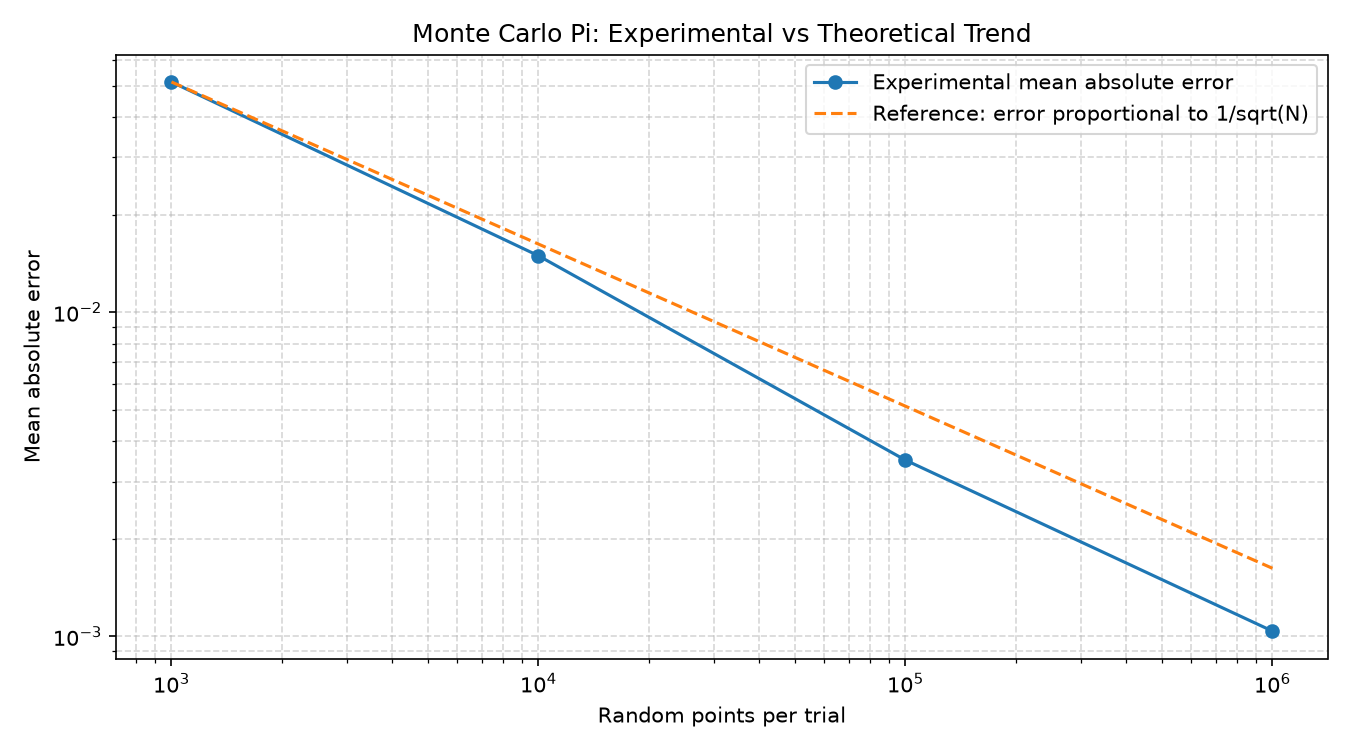
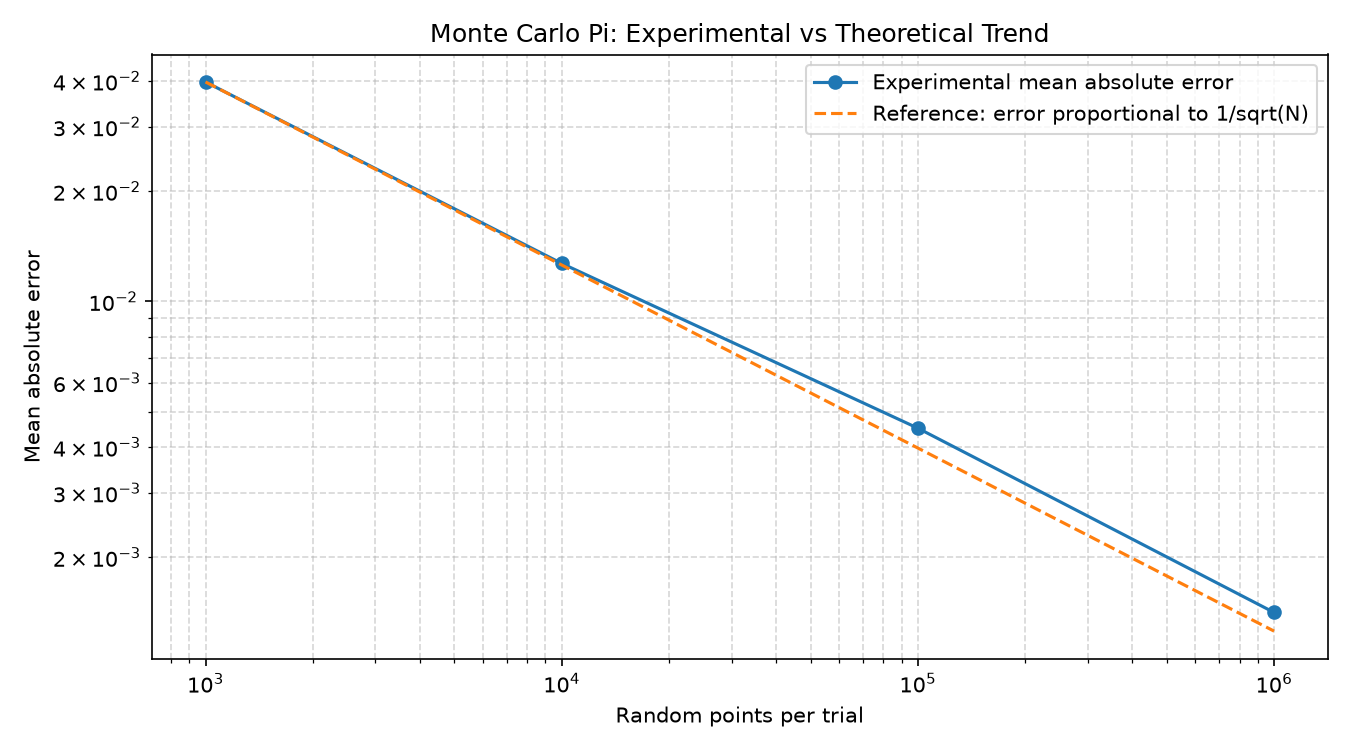
save changes

diff --git a/app.py b/app.py
@@ -1,0 +1,363 @@
+from __future__ import annotations
+import csv
+import io
+import math
+import random
+import statistics
+import subprocess
+import tempfile
+import time
+from pathlib import Path
+
+import matplotlib.pyplot as plt
+import streamlit as st
+
+PI = math.pi
+ROOT = Path(__file__).resolve().parent
+DEFAULT_CSV = ROOT / "comparison.csv"
+
+st.set_page_config(
+    page_title="Monte Carlo Lab | Simulation Studio",
+    page_icon="🎲",
+    layout="wide",
+    initial_sidebar_state="expanded",
+)
+
+# Lightweight design system: custom CSS only affects presentation.
+st.markdown("""
+<style>
+@import url('https://fonts.googleapis.com/css2?family=DM+Mono:wght@400;500&family=Manrope:wght@400;500;600;700;800&display=swap');
+:root { --ink:#e8edf7; --muted:#98a5bc; --panel:#111827; --panel2:#151f30; --line:rgba(148,163,184,.18); --mint:#70e1c1; --blue:#82aaff; }
+html, body, [class*="css"] { font-family:'Manrope',sans-serif; }
+.stApp { background: radial-gradient(ellipse at 15% 0%, rgba(60,100,170,.16), transparent 35%), #0a0f18; color:var(--ink); }
+[data-testid="stHeader"] { background:rgba(10,15,24,.8); }
+[data-testid="stSidebar"] { background:#0c1320; border-right:1px solid var(--line); }
+.block-container { padding-top:2rem; padding-bottom:3rem; max-width:1500px; }
+.hero { padding:1.35rem 1.5rem 1.3rem; border:1px solid var(--line); border-radius:22px; background:linear-gradient(135deg,rgba(25,38,58,.95),rgba(15,23,36,.93)); margin-bottom:1.25rem; position:relative; overflow:hidden; }
+.hero:after { content:'π'; position:absolute; right:2.2rem; top:-2.2rem; font-family:Georgia,serif; font-size:12rem; font-weight:700; color:rgba(130,170,255,.06); pointer-events:none; }
+.eyebrow { color:var(--mint); font-family:'DM Mono',monospace; font-size:.75rem; letter-spacing:.14em; text-transform:uppercase; }
+.hero h1 { margin:.35rem 0 .25rem; font-size:2.25rem; letter-spacing:-.055em; color:#f2f6ff; }
+.hero p { color:var(--muted); margin:0; max-width:740px; }
+.section-title { font-size:1.13rem; font-weight:800; color:#eef3ff; margin:.3rem 0 .85rem; letter-spacing:-.025em; }
+.panel { background:linear-gradient(145deg,rgba(21,31,48,.92),rgba(15,23,35,.92)); border:1px solid var(--line); border-radius:18px; padding:1rem 1.1rem; }
+.kpi-label { color:var(--muted); font-size:.78rem; letter-spacing:.02em; margin-bottom:.35rem; }
+.kpi-value { color:#f2f6ff; font-size:1.55rem; font-weight:800; letter-spacing:-.04em; line-height:1.25; }
+.kpi-foot { color:#a1b0c8; font-size:.76rem; margin-top:.4rem; }
+.tag { display:inline-block; padding:.25rem .55rem; border-radius:99px; background:rgba(112,225,193,.1); color:var(--mint); border:1px solid rgba(112,225,193,.22); font-size:.72rem; font-family:'DM Mono',monospace; }
+div[data-testid="stMetric"] { background:linear-gradient(145deg,rgba(21,31,48,.92),rgba(15,23,35,.92)); border:1px solid var(--line); padding:1rem 1.05rem; border-radius:16px; }
+div[data-testid="stMetricLabel"] { color:#aab6ca; }
+div[data-testid="stMetricValue"] { color:#f2f6ff; }
+.stButton button, .stDownloadButton button { border-radius:10px; min-height:2.8rem; font-weight:750; }
+.stButton button[kind="primary"] { background:#70e1c1; color:#092017; border:0; }
+.stButton button[kind="primary"]:hover { background:#9aefd8; color:#092017; }
+[data-testid="stTabs"] button { font-weight:700; }
+[data-testid="stDataFrame"] { border:1px solid var(--line); border-radius:12px; overflow:hidden; }
+.small-note { color:var(--muted); font-size:.82rem; }
+.formula { padding:.75rem 1rem; border-left:3px solid var(--mint); background:rgba(112,225,193,.06); border-radius:0 10px 10px 0; color:#dce8f8; }
+hr { border-color:var(--line); }
+</style>
+""", unsafe_allow_html=True)
+
+# -----------------------------
+# Sidebar: experiment configuration
+# -----------------------------
+st.sidebar.markdown('<div class="eyebrow">Experiment console</div>', unsafe_allow_html=True)
+st.sidebar.title("Run configuration")
+st.sidebar.caption("Parameters mirror your C++ benchmark workflow.")
+trials = st.sidebar.number_input("Repeated trials per sample size", min_value=1, max_value=10000, value=20, step=1)
+start_n = st.sidebar.select_slider(
+    "Starting sample size",
+    options=[100, 1_000],
+    value=1_000,
+    format_func=lambda x: f"{x:,}",
+)
+seed = st.sidebar.number_input("Random seed", min_value=0, max_value=2_147_483_647, value=42, step=1)
+engine_choice = st.sidebar.radio("Simulation engine", ["Python demo engine", "Use C++ engine (optional)"], index=0)
+cpp_binary = st.sidebar.text_input("C++ executable path", value="./MonteCarloLab.exe" if __import__('os').name == 'nt' else "./MonteCarloLab", disabled=engine_choice != "Use C++ engine (optional)")
+run_button = st.sidebar.button("▶  Run experiment", type="primary", use_container_width=True)
+st.sidebar.markdown("---")
+st.sidebar.markdown("**Sample-size schedule**")
+st.sidebar.code("N, 10N, 100N, 1000N", language="text")
+st.sidebar.caption("The C++ program currently caps each sample size at 1,000,000. Choose a starting size accordingly.")
+
+st.markdown('''<div class="hero">
+  <div class="eyebrow">Monte Carlo Simulation Lab · Research workspace</div>
+  <h1>Measure randomness.<br>Understand convergence.</h1>
+  <p>Explore how sampling error, repeated trials, and computation time behave as the number of random points grows. Built around your project's π-estimation benchmark and CSV results.</p>
+</div>''', unsafe_allow_html=True)
+
+# Helpers
+
+def run_python_experiment(num_trials: int, initial_n: int, random_seed: int) -> list[dict]:
+    """Perform the same four-level repeated-trial experiment as main.cpp."""
+    rows: list[dict] = []
+    rng = random.Random(random_seed)
+    for level in range(4):
+        n = initial_n * (10 ** level)
+        if n > 1_000_000:
+            raise ValueError(f"Sample size {n:,} exceeds the existing C++ project's 1,000,000-point limit. Lower the starting sample size.")
+        estimates, errors, timings = [], [], []
+        for _ in range(num_trials):
+            inside = 0
+            start = time.perf_counter()
+            for _ in range(n):
+                x = rng.uniform(-1.0, 1.0)
+                y = rng.uniform(-1.0, 1.0)
+                if x * x + y * y <= 1.0:
+                    inside += 1
+            elapsed = time.perf_counter() - start
+            estimate = 4.0 * inside / n
+            estimates.append(estimate)
+            errors.append(abs(estimate - PI))
+            timings.append(elapsed)
+        avg_time = statistics.mean(timings)
+        rows.append({
+            "samples": n,
+            "trials": num_trials,
+            "mean_estimate": statistics.mean(estimates),
+            "mean_absolute_error": statistics.mean(errors),
+            "average_time": avg_time,
+            "points_per_second": n / avg_time if avg_time > 0 else 0.0,
+            "estimate_stddev": statistics.stdev(estimates) if len(estimates) > 1 else 0.0,
+        })
+    return rows
+
+
+def read_comparison_csv(path: Path) -> list[dict]:
+    if not path.exists():
+        return []
+    with path.open("r", newline="", encoding="utf-8-sig") as f:
+        reader = csv.DictReader(f)
+        required = {"samples", "trials", "mean_estimate", "mean_absolute_error", "average_time", "points_per_second"}
+        if not reader.fieldnames or not required.issubset(set(reader.fieldnames)):
+            return []
+        rows = []
+        for raw in reader:
+            try:
+                rows.append({
+                    "samples": int(raw["samples"]),
+                    "trials": int(raw["trials"]),
+                    "mean_estimate": float(raw["mean_estimate"]),
+                    "mean_absolute_error": float(raw["mean_absolute_error"]),
+                    "average_time": float(raw["average_time"]),
+                    "points_per_second": float(raw["points_per_second"]),
+                    "estimate_stddev": float(raw.get("estimate_stddev", 0) or 0),
+                })
+            except (ValueError, TypeError):
+                continue
+        return rows
+
+
+def write_csv(rows: list[dict]) -> bytes:
+    fieldnames = ["samples", "trials", "mean_estimate", "mean_absolute_error", "average_time", "points_per_second", "estimate_stddev"]
+    buffer = io.StringIO()
+    writer = csv.DictWriter(buffer, fieldnames=fieldnames)
+    writer.writeheader()
+    for row in rows:
+        writer.writerow({k: row.get(k, 0) for k in fieldnames})
+    return buffer.getvalue().encode("utf-8")
+
+
+def style_ax(ax, title: str, xlabel: str, ylabel: str, log_x: bool = True, log_y: bool = False):
+    ax.set_title(title, loc="left", color="#e8edf7", fontsize=12, fontweight="bold", pad=13)
+    ax.set_xlabel(xlabel, color="#aab6ca")
+    ax.set_ylabel(ylabel, color="#aab6ca")
+    if log_x:
+        ax.set_xscale("log")
+    if log_y:
+        # Zero errors cannot be represented on a logarithmic axis; clamp only for display.
+        ax.set_yscale("log")
+    ax.grid(True, which="both", linestyle="--", linewidth=.6, alpha=.2, color="#9aacc6")
+    ax.tick_params(colors="#aab6ca", labelsize=9)
+    for spine in ax.spines.values():
+        spine.set_color("#344256")
+    ax.set_facecolor("#111a28")
+
+# Run chosen engine. C++ runner is opt-in because the repo's current CLI is interactive and writes comparison.csv.
+if run_button:
+    if start_n * 1000 > 1_000_000:
+        st.error("Your C++ project's current main.cpp restricts the largest sample size to 1,000,000. Select a starting sample size of 100 or 1,000.")
+    elif engine_choice == "Use C++ engine (optional)":
+        st.warning("Your existing executable is interactive and writes comparison.csv in its working directory. To avoid overwriting your current data unexpectedly, this dashboard has not launched it automatically. Run the compiled C++ program in a terminal, then reload the CSV from the Data tab. The Python demo engine is fully runnable from this interface.")
+    else:
+        with st.spinner("Running repeated trials across four sample sizes…"):
+            try:
+                results = run_python_experiment(int(trials), int(start_n), int(seed))
+                st.session_state["results"] = results
+                st.session_state["last_run"] = {"trials": int(trials), "start_n": int(start_n), "seed": int(seed), "engine": "Python demo engine"}
+                st.success("Experiment complete. Results updated below.")
+            except Exception as exc:
+                st.error(str(exc))
+
+# Data import is deliberately local-only.
+with st.expander("Load your existing comparison.csv", expanded=False):
+    st.write("Use the CSV produced by your C++ program. The dashboard reads your actual benchmark columns; it does not make up new results.")
+    uploaded = st.file_uploader("Choose comparison.csv", type=["csv"], key="comparison_upload")
+    if uploaded is not None:
+        try:
+            raw_text = uploaded.getvalue().decode("utf-8-sig")
+            reader = csv.DictReader(io.StringIO(raw_text))
+            needed = {"samples", "trials", "mean_estimate", "mean_absolute_error", "average_time", "points_per_second"}
+            if not reader.fieldnames or not needed.issubset(set(reader.fieldnames)):
+                st.error("CSV is missing one or more required columns. Expected: samples, trials, mean_estimate, mean_absolute_error, average_time, points_per_second.")
+            else:
+                loaded = []
+                for row in reader:
+                    loaded.append({"samples": int(row["samples"]), "trials": int(row["trials"]), "mean_estimate": float(row["mean_estimate"]), "mean_absolute_error": float(row["mean_absolute_error"]), "average_time": float(row["average_time"]), "points_per_second": float(row["points_per_second"]), "estimate_stddev": 0.0})
+                st.session_state["results"] = loaded
+                st.session_state["last_run"] = {"trials": None, "start_n": None, "seed": None, "engine": "Imported C++ CSV"}
+                st.success(f"Loaded {len(loaded)} benchmark rows.")
+        except Exception as exc:
+            st.error(f"Could not read CSV: {exc}")
+
+results = st.session_state.get("results")
+if not results:
+    # Load repository's committed experimental data if present alongside app.py.
+    results = read_comparison_csv(DEFAULT_CSV)
+    if not results:
+        # Published baseline from this repository's README/comparison.csv, clearly identified as repository data.
+        results = [
+            {"samples": 1000, "trials": 20, "mean_estimate": 3.1116, "mean_absolute_error": 0.0512778, "average_time": 0.00015015, "points_per_second": 6660006.66, "estimate_stddev": 0.0},
+            {"samples": 10000, "trials": 20, "mean_estimate": 3.14528, "mean_absolute_error": 0.0149222, "average_time": 0.00215370, "points_per_second": 4643172.21525746, "estimate_stddev": 0.0},
+            {"samples": 100000, "trials": 20, "mean_estimate": 3.142666, "mean_absolute_error": 0.0034962, "average_time": 0.00902590, "points_per_second": 11079227.55625478, "estimate_stddev": 0.0},
+            {"samples": 1000000, "trials": 20, "mean_estimate": 3.1418216, "mean_absolute_error": 0.001038, "average_time": 0.09894475, "points_per_second": 10106650.42864831, "estimate_stddev": 0.0},
+        ]
+        source_note = "Showing baseline results committed in the repository. Run a new experiment or upload comparison.csv to view fresh results."
+    else:
+        source_note = "Showing rows from the local comparison.csv file."
+else:
+    source_note = "Showing the most recently generated or imported results."
+
+# Build data arrays for dashboard sections.
+sorted_results = sorted(results, key=lambda row: row["samples"])
+xs = [row["samples"] for row in sorted_results]
+errs = [max(row["mean_absolute_error"], 1e-12) for row in sorted_results]
+means = [row["mean_estimate"] for row in sorted_results]
+times = [row["average_time"] for row in sorted_results]
+throughputs = [row["points_per_second"] for row in sorted_results]
+
+st.markdown(f'<span class="tag">● DATA SOURCE</span> &nbsp; <span class="small-note">{source_note}</span>', unsafe_allow_html=True)
+st.markdown('<div class="section-title">Experiment overview</div>', unsafe_allow_html=True)
+
+latest = sorted_results[-1]
+first_error = sorted_results[0]["mean_absolute_error"]
+last_error = latest["mean_absolute_error"]
+error_reduction = (first_error / last_error) if last_error > 0 else float("inf")
+
+k1, k2, k3, k4 = st.columns(4)
+k1.metric("Largest sample size", f"{latest['samples']:,}", help="Points generated in each trial at the largest benchmark level.")
+k2.metric("Mean π estimate", f"{latest['mean_estimate']:.8f}", delta=f"{latest['mean_estimate'] - PI:+.6f} vs true π")
+k3.metric("Mean absolute error", f"{latest['mean_absolute_error']:.6f}", delta=f"{error_reduction:.1f}× lower than first level" if math.isfinite(error_reduction) else None, delta_color="inverse")
+k4.metric("Average throughput", f"{latest['points_per_second']:,.0f}", help="Points per second based on average time per trial.")
+
+# Tabs keep the dashboard information architecture focused.
+tab_overview, tab_accuracy, tab_performance, tab_data, tab_method = st.tabs(["✦ Overview", "↘ Accuracy & convergence", "◴ Performance", "▤ Data & export", "∑ Method"])
+
+with tab_overview:
+    left, right = st.columns([1.35, 1])
+    with left:
+        st.markdown('<div class="section-title">How accuracy changes with sample size</div>', unsafe_allow_html=True)
+        fig, ax = plt.subplots(figsize=(8, 4.2), constrained_layout=True)
+        fig.patch.set_facecolor("#111a28")
+        style_ax(ax, "Experimental error vs sample size", "Random points per trial (N)", "Mean absolute error", log_x=True, log_y=True)
+        ax.plot(xs, errs, color="#70e1c1", marker="o", markersize=6, linewidth=2.4, label="Observed mean absolute error")
+        ref = [errs[0] * math.sqrt(xs[0] / x) for x in xs]
+        ax.plot(xs, ref, color="#82aaff", linestyle="--", linewidth=1.8, label="1/√N reference trend")
+        ax.legend(facecolor="#111a28", edgecolor="#344256", labelcolor="#dce6f5", fontsize=8)
+        st.pyplot(fig, use_container_width=True)
+        plt.close(fig)
+    with right:
+        st.markdown('<div class="section-title">Run summary</div>', unsafe_allow_html=True)
+        st.markdown('<div class="panel">', unsafe_allow_html=True)
+        st.markdown(f'<div class="kpi-label">Sample-size levels</div><div class="kpi-value">{len(sorted_results)} levels</div><div class="kpi-foot">Geometric progression: ×10 per level</div><hr>', unsafe_allow_html=True)
+        st.markdown(f'<div class="kpi-label">Trials per level</div><div class="kpi-value">{sorted_results[0]["trials"]:,}</div><div class="kpi-foot">Repeated independent estimates</div><hr>', unsafe_allow_html=True)
+        st.markdown(f'<div class="kpi-label">Largest-level average runtime</div><div class="kpi-value">{latest["average_time"]:.6f} s</div><div class="kpi-foot">Measured simulation time per trial</div><hr>', unsafe_allow_html=True)
+        st.markdown(f'<div class="kpi-label">Largest-level estimate difference</div><div class="kpi-value">{abs(latest["mean_estimate"] - PI):.6f}</div><div class="kpi-foot">Absolute difference between mean estimate and π</div>', unsafe_allow_html=True)
+        st.markdown('</div>', unsafe_allow_html=True)
+        st.markdown("<br>", unsafe_allow_html=True)
+        st.markdown('<div class="formula"><b>Monte Carlo estimator</b><br><span style="font-family:DM Mono,monospace">π̂ = 4 × points inside circle / total points</span></div>', unsafe_allow_html=True)
+
+with tab_accuracy:
+    st.markdown('<div class="section-title">Accuracy analysis</div>', unsafe_allow_html=True)
+    c1, c2 = st.columns(2)
+    with c1:
+        fig, ax = plt.subplots(figsize=(7, 4.4), constrained_layout=True)
+        fig.patch.set_facecolor("#111a28")
+        style_ax(ax, "Mean estimate vs true π", "Random points per trial (N)", "Mean π estimate", log_x=True)
+        ax.plot(xs, means, color="#82aaff", marker="o", linewidth=2.2, label="Mean estimate")
+        ax.axhline(PI, color="#70e1c1", linestyle="--", linewidth=1.7, label=f"True π = {PI:.6f}")
+        ax.legend(facecolor="#111a28", edgecolor="#344256", labelcolor="#dce6f5", fontsize=8)
+        st.pyplot(fig, use_container_width=True)
+        plt.close(fig)
+    with c2:
+        fig, ax = plt.subplots(figsize=(7, 4.4), constrained_layout=True)
+        fig.patch.set_facecolor("#111a28")
+        style_ax(ax, "Error on log-log axes", "Random points per trial (N)", "Mean absolute error", log_x=True, log_y=True)
+        ax.plot(xs, errs, color="#f0a66c", marker="o", linewidth=2.2, label="Observed error")
+        ref = [errs[0] * math.sqrt(xs[0] / x) for x in xs]
+        ax.plot(xs, ref, color="#82aaff", linestyle="--", linewidth=1.7, label="1/√N reference")
+        ax.legend(facecolor="#111a28", edgecolor="#344256", labelcolor="#dce6f5", fontsize=8)
+        st.pyplot(fig, use_container_width=True)
+        plt.close(fig)
+    st.info("The 1/√N curve is a reference trend, not a guaranteed error at each sample size. Individual Monte Carlo results are random, and observed errors need not decrease monotonically.")
+
+with tab_performance:
+    st.markdown('<div class="section-title">Performance & scaling</div>', unsafe_allow_html=True)
+    c1, c2 = st.columns(2)
+    with c1:
+        fig, ax = plt.subplots(figsize=(7, 4.4), constrained_layout=True)
+        fig.patch.set_facecolor("#111a28")
+        style_ax(ax, "Throughput by sample size", "Random points per trial (N)", "Points per second", log_x=True)
+        ax.plot(xs, throughputs, color="#70e1c1", marker="o", linewidth=2.2)
+        st.pyplot(fig, use_container_width=True)
+        plt.close(fig)
+    with c2:
+        fig, ax = plt.subplots(figsize=(7, 4.4), constrained_layout=True)
+        fig.patch.set_facecolor("#111a28")
+        style_ax(ax, "Average runtime by sample size", "Random points per trial (N)", "Average seconds per trial", log_x=True, log_y=True)
+        ax.plot(xs, [max(x, 1e-12) for x in times], color="#f0a66c", marker="o", linewidth=2.2)
+        st.pyplot(fig, use_container_width=True)
+        plt.close(fig)
+    st.caption("Throughput and runtime depend on CPU, compiler optimizations, system load, and the engine used. Compare runs on the same machine for meaningful conclusions.")
+
+with tab_data:
+    st.markdown('<div class="section-title">Benchmark table</div>', unsafe_allow_html=True)
+    display_rows = []
+    for row in sorted_results:
+        display_rows.append({
+            "Points / trial": f"{row['samples']:,}",
+            "Trials": row["trials"],
+            "Mean π estimate": f"{row['mean_estimate']:.8f}",
+            "Mean absolute error": f"{row['mean_absolute_error']:.8f}",
+            "Average time (s)": f"{row['average_time']:.6f}",
+            "Throughput (pts/s)": f"{row['points_per_second']:,.0f}",
+        })
+    st.dataframe(display_rows, use_container_width=True, hide_index=True)
+    st.download_button("⬇ Download current results (CSV)", data=write_csv(sorted_results), file_name="monte_carlo_lab_results.csv", mime="text/csv", type="primary")
+    st.caption("CSV fields remain aligned with your repository's comparison.csv format, with estimate_stddev included when available.")
+
+with tab_method:
+    st.markdown('<div class="section-title">What the simulation computes</div>', unsafe_allow_html=True)
+    st.markdown("""
+    **1. Sample uniformly from the square** `[-1, 1] × [-1, 1]`.
+
+    **2. Classify each point** using `x*x + y*y <= 1`.
+
+    **3. Estimate π** from the proportion of points inside the unit circle.
+    """)
+    st.latex(r"\hat{\pi} = 4\frac{N_{\mathrm{inside}}}{N}")
+    st.markdown("""
+    **Repeated-trial statistics**
+
+    - **Mean estimate:** average of all trial-level π estimates.
+    - **Mean absolute error:** average of `|estimate − π|` across trials.
+    - **Average execution time:** average simulation duration per trial.
+    - **Throughput:** sample size divided by average execution time.
+
+    The expected error scale behaves approximately like `1/√N`, so a 100× increase in sample size generally reduces the typical error scale by roughly 10×. This is a probabilistic trend, not a promise about every run.
+    """)
+    with st.expander("Why is it a full circle, not a quarter-circle?"):
+        st.write("This project samples both x and y uniformly from −1 to 1, so the plotted domain is a square of side length 2 containing the full unit circle. The circle's area is π and the square's area is 4; therefore the inside-point proportion estimates π/4.")
+
+st.markdown("---")
+st.markdown('<div class="small-note">Monte Carlo Simulation Lab · C++ benchmark concepts with a Python/Streamlit dashboard. Baseline figures are labeled as repository data; new dashboard runs use the Python demo engine unless the C++ CSV is imported.</div>', unsafe_allow_html=True)
